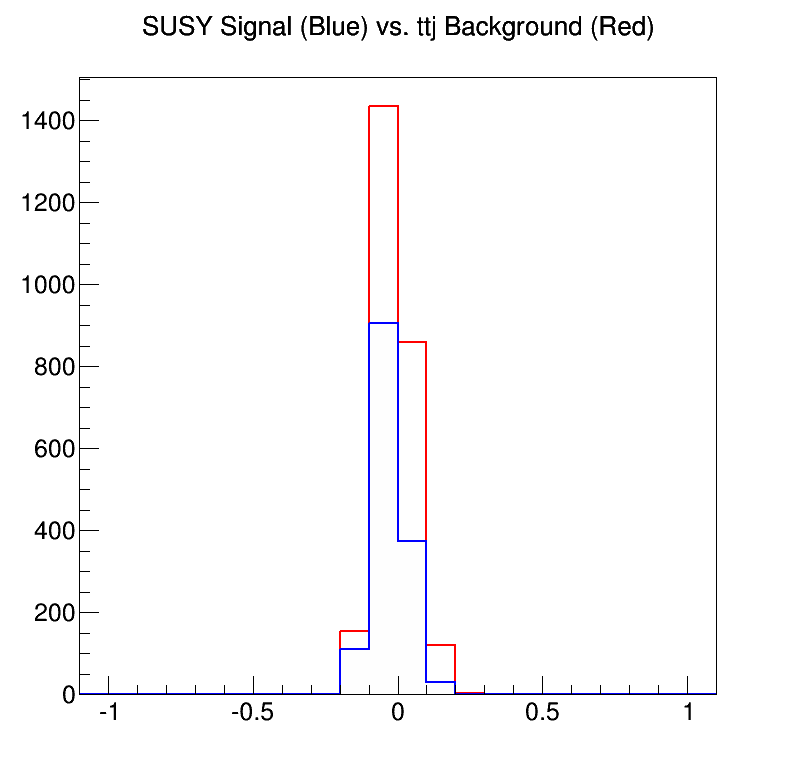
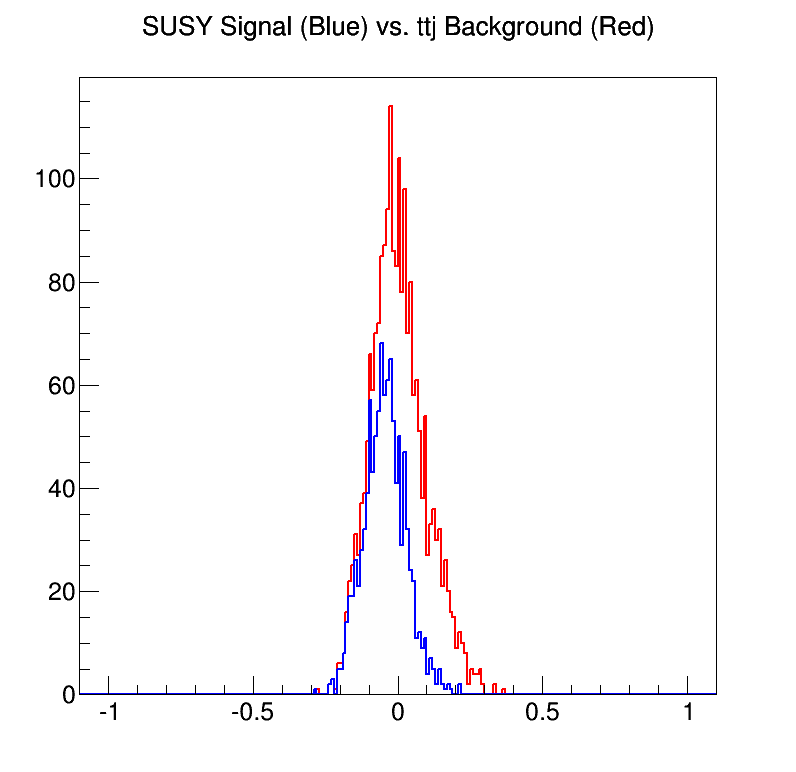
updating image

diff --git a/index.html b/index.html
@@ -275,7 +275,7 @@
 				<section>
 					<h2>Signal-Background Separation</h2>
 					<p>
-						This could be trouble; the signal is almost completely contained within the background!
+						Possibility of separation through cuts
 					</p>
 					<img src='images/bdt-separation.png' width='440' height='440'>
 				</section>
